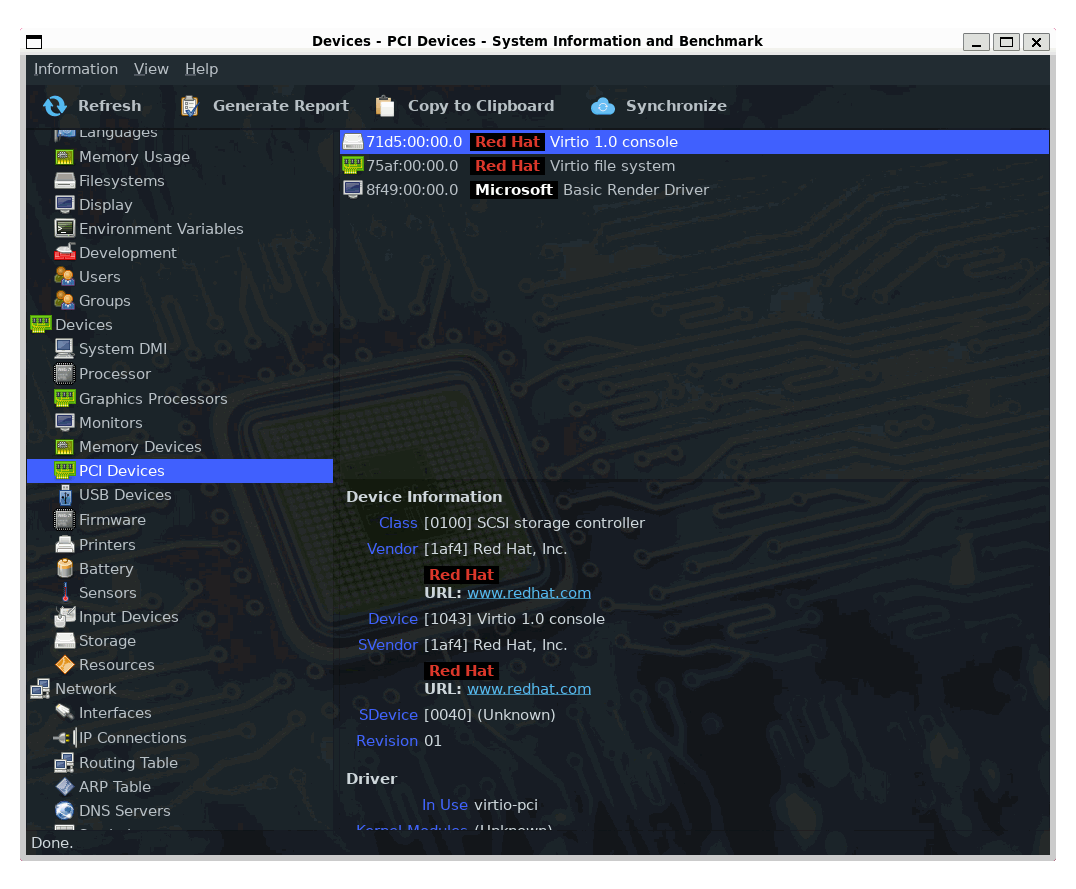
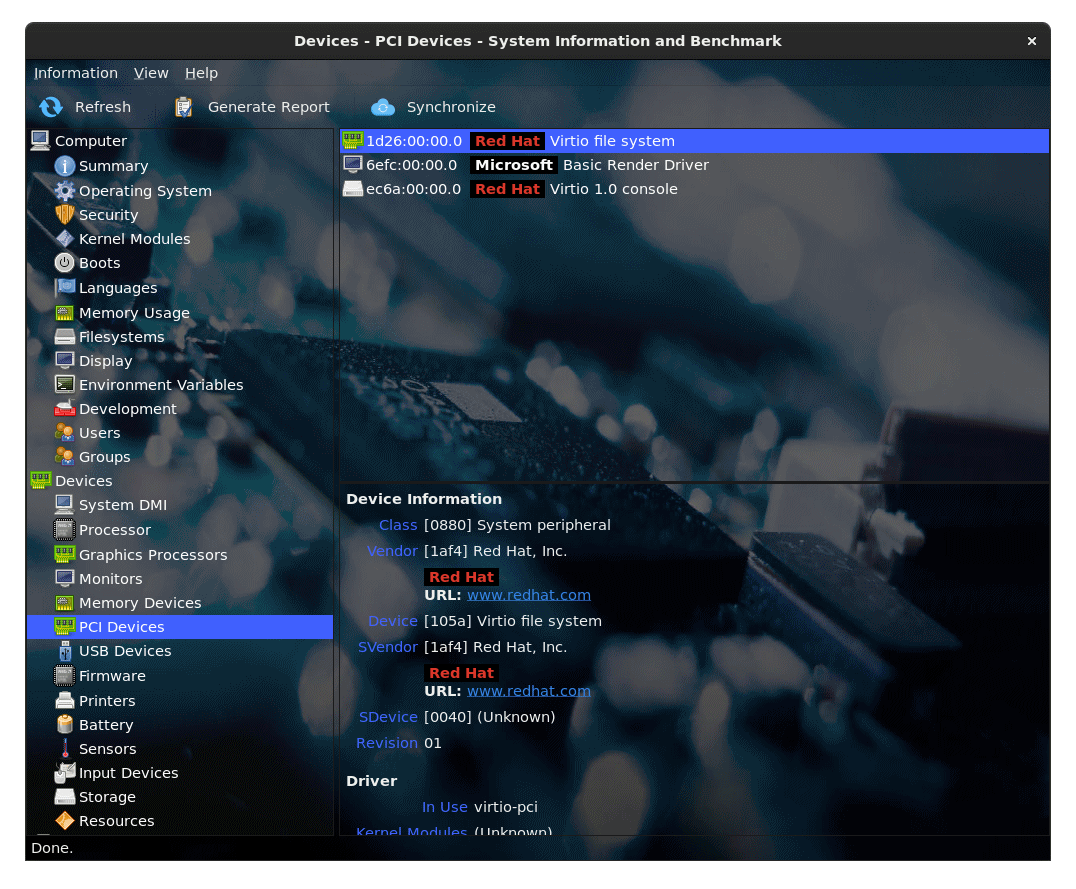
FIX Updated hardinfo2 pictures 7+8, changed background, added credits

diff --git a/www/index.html b/www/index.html
@@ -48,7 +48,7 @@
     <img src="/img/hardinfo1.png" width=100%>
   </div>
   <div class="mySlides fade">
-    <img src="/img/hardinfo8.png" width=100%>
+    <img src="/img/hardinfo8.webp" width=100%>
   </div>
   <div class="mySlides fade">
     <img src="/img/hardinfo4.png" width=100%>
@@ -63,7 +63,7 @@
     <img src="/img/hardinfo2.png" width=100%>
   </div>
   <div class="mySlides fade">
-    <img src="/img/hardinfo7.png" width=100%>
+    <img src="/img/hardinfo7.webp" width=100%>
   </div>
   <div class="mySlides fade">
     <img src="/img/hardinfo5.png" width=100%>
@@ -237,6 +237,8 @@ List of topics available: hardinfo2 -r -s -q|grep ^\-<br>
 <h2>Credits</h2>
 <b><font color=black>hard<font color=#4060FF>info<font color=red>2</font></font></font> team members</b><br><br>
 <div id="githubcredits"></div>
+Webpage Artwork by:<br>
+KDE<br>
 <br>
 <div align=center class="buttons">
 <a href="https://github.com/hardinfo2/hardinfo2/discussions"><button><i class="fa fa-comments"></i> Discussion</button></a>

diff --git a/www/css/style.css b/www/css/style.css
@@ -3,7 +3,7 @@
 
 body {
     margin:0;
-    background-image: url('/img/bg1.jpg');
+    background-image: url('/img/bg2.jpg');
     background-repeat: no-repeat;
     background-size: cover;
 }
